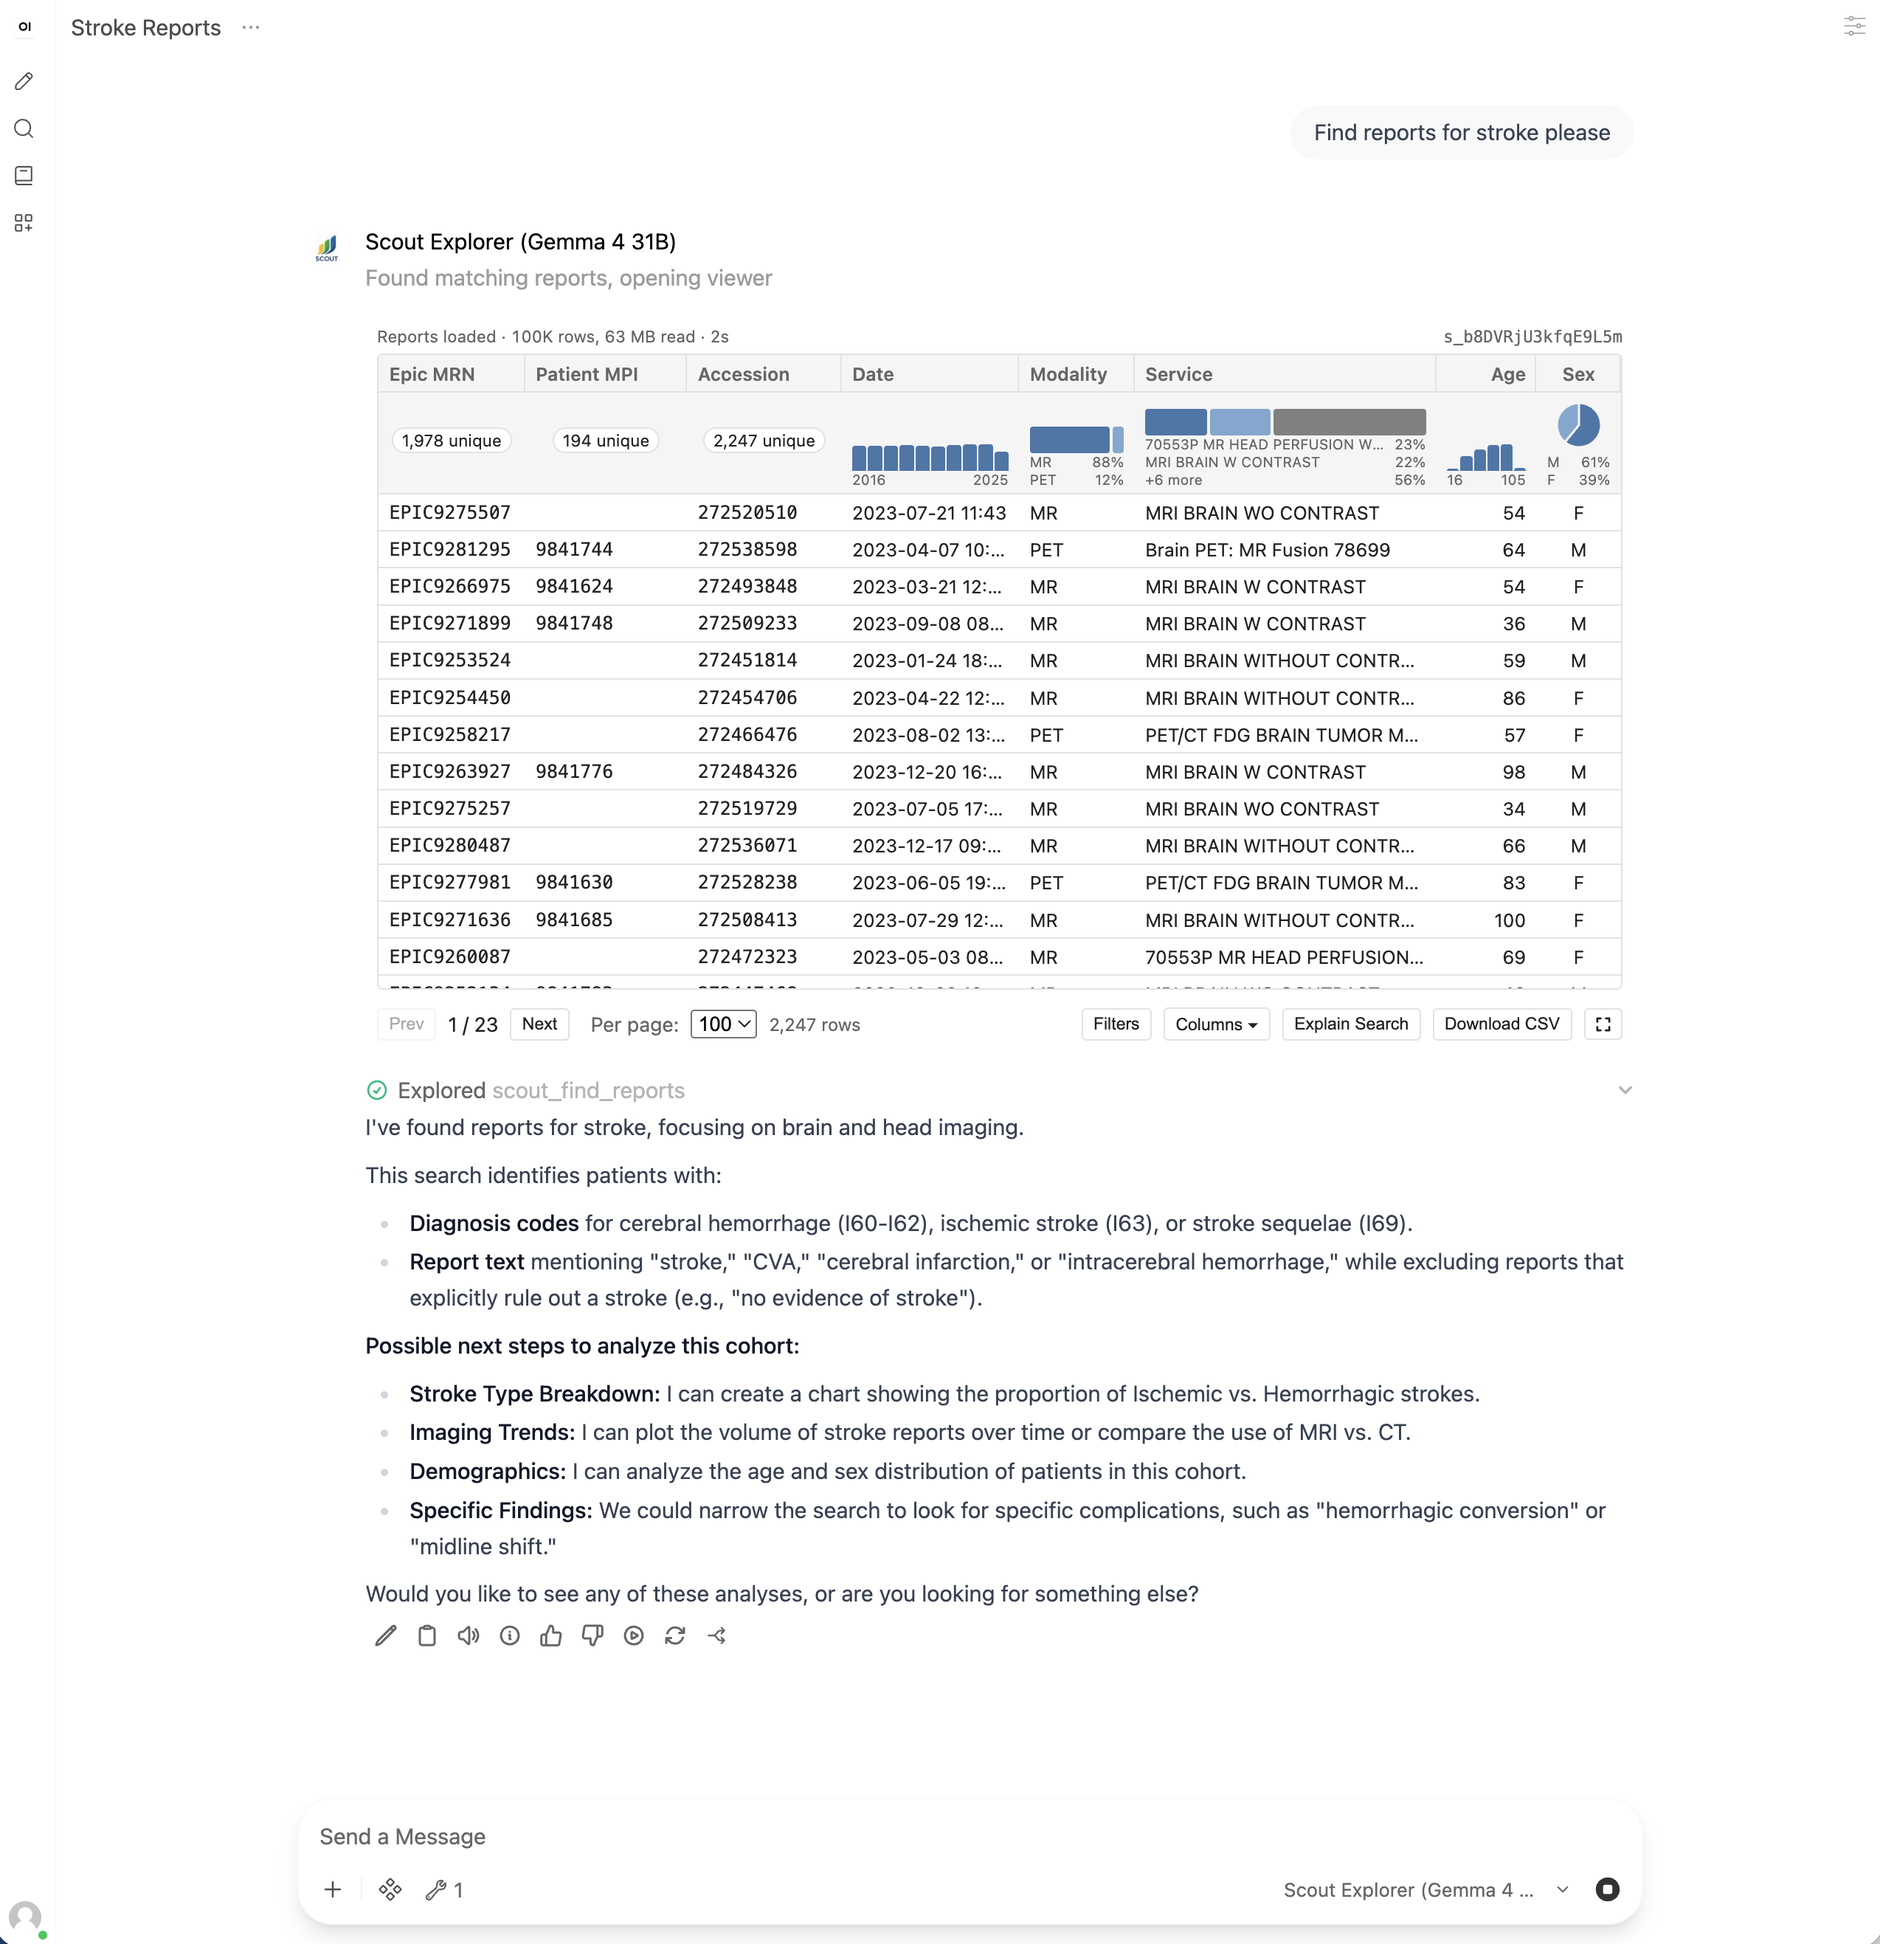
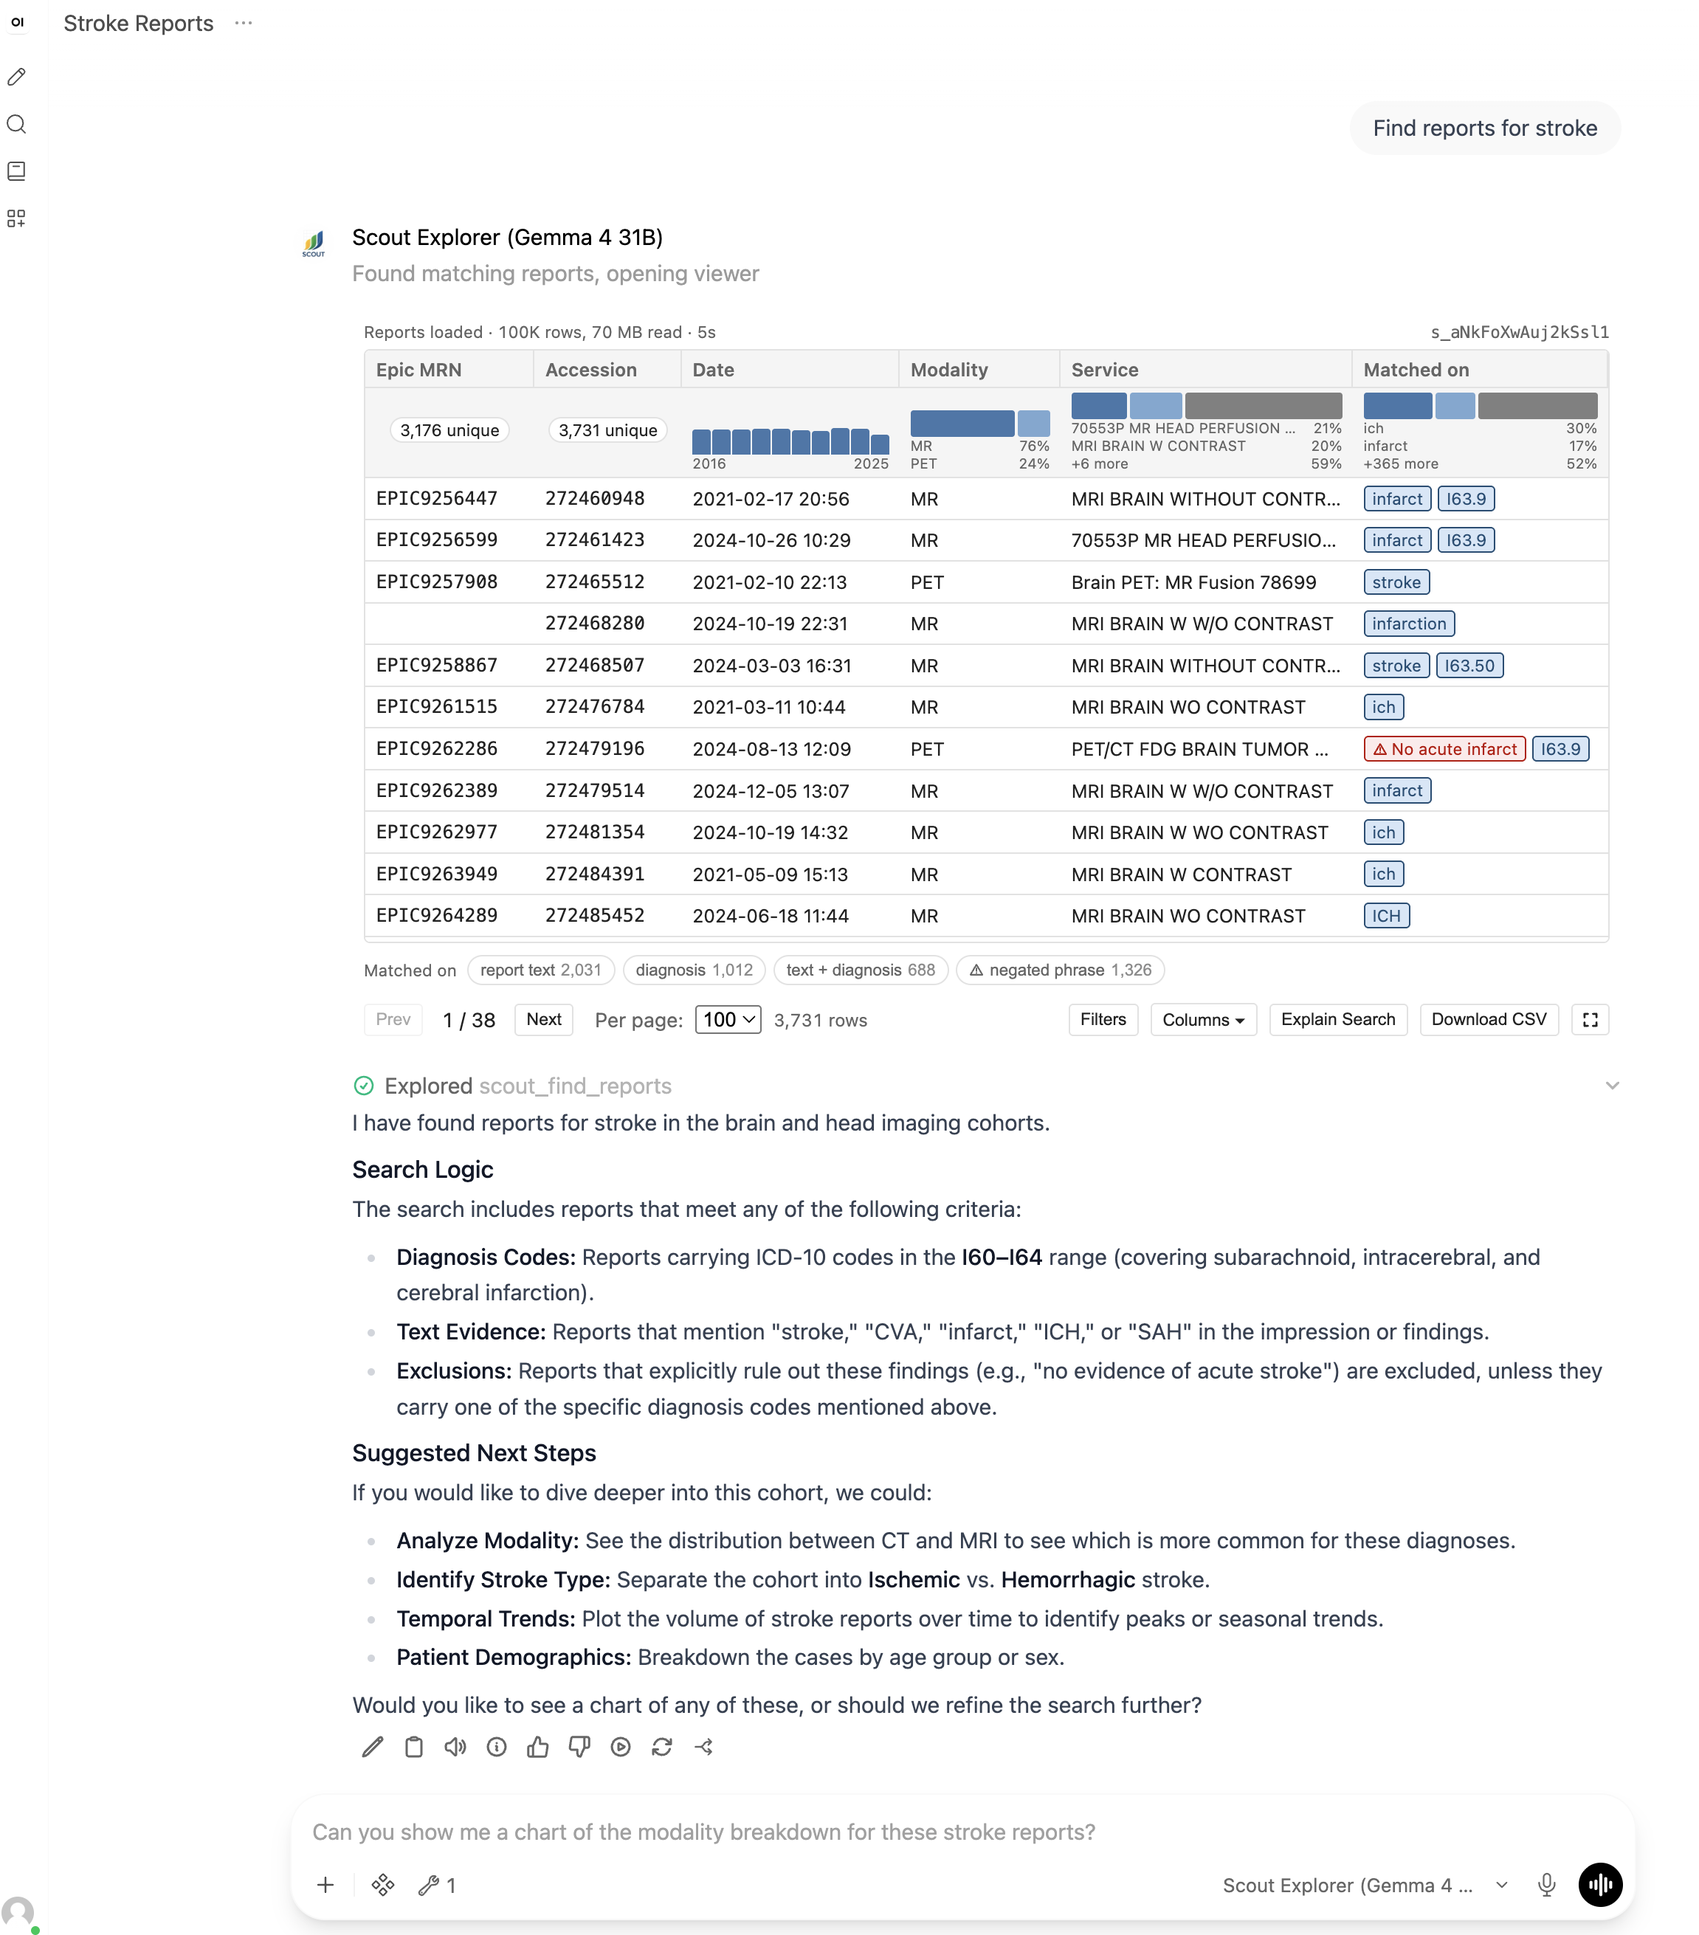
docs(report-viewer): refresh report viewer screenshots, rename row to panel

diff --git a/docs/source/user/chat.md b/docs/source/user/chat.md
@@ -115,7 +115,7 @@ Click a row to open the report in a side panel, with the report text, patient an
 
 Matched text is highlighted in blue and negated phrases in red. Highlights reflect only the patterns in the query, so related wording the AI did not search for stays unmarked. A red highlight in a report kept by its diagnosis code is expected, but worth a closer read.
 
-![Report panel](../images/ScoutReportViewerRow.png)
+![Report panel](../images/ScoutReportViewerPanel.png)
 
 ### Viewing the SQL Query
 
